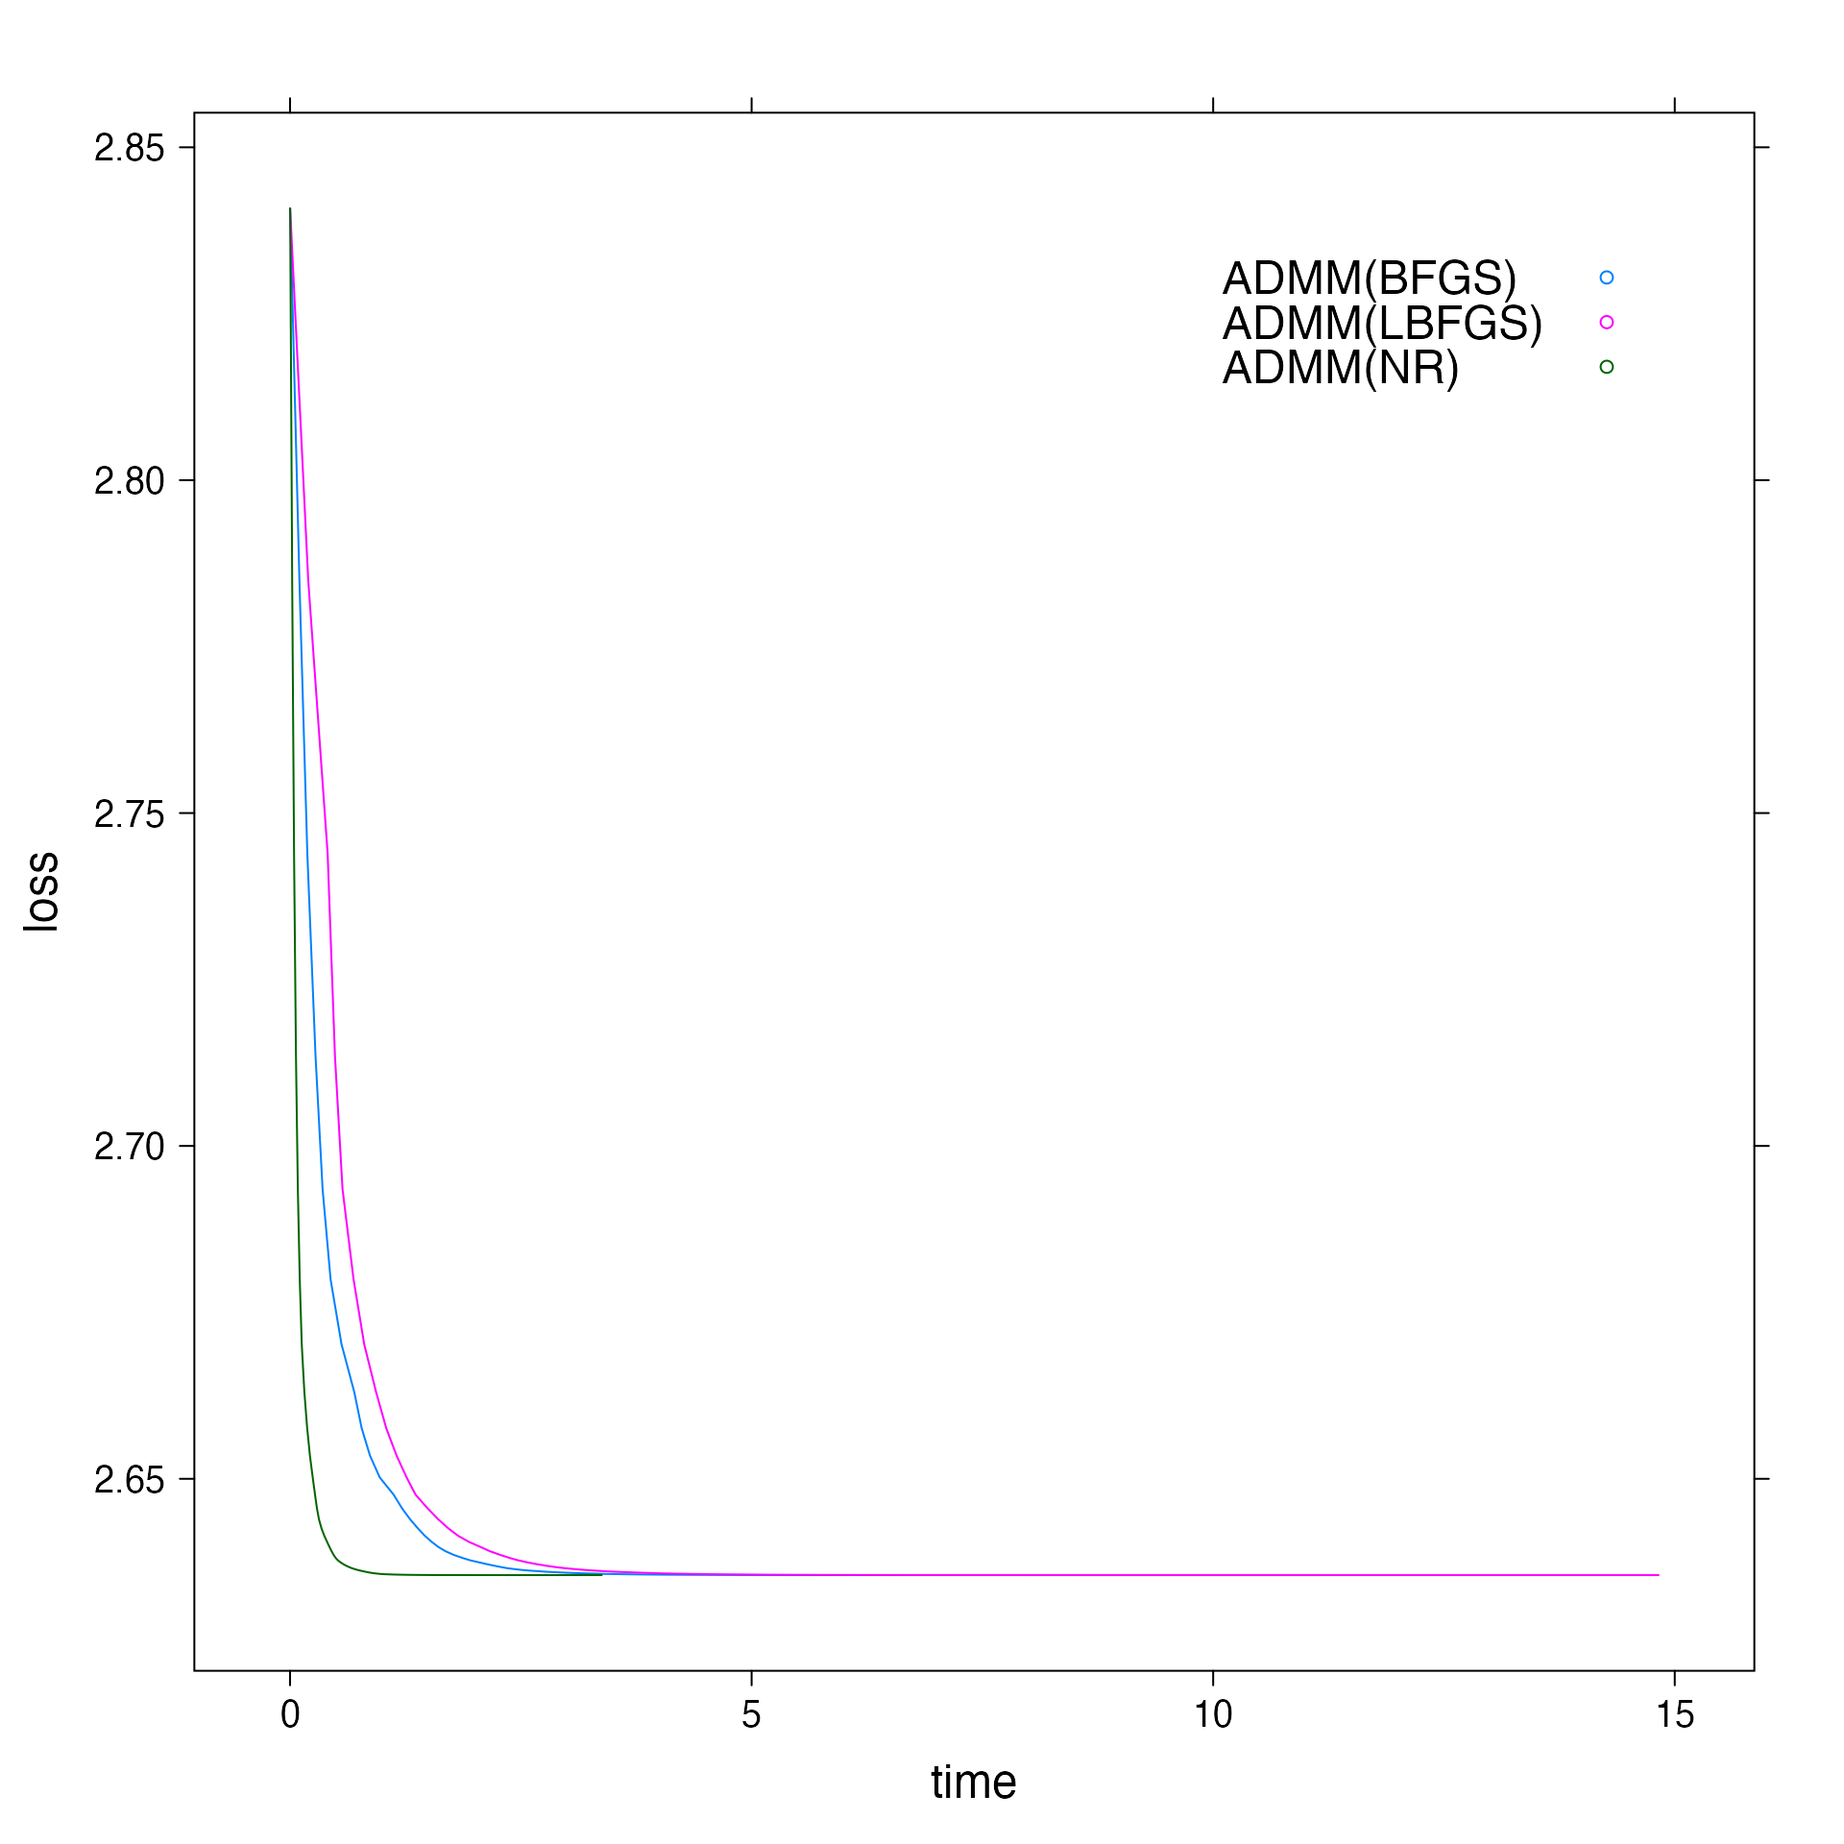
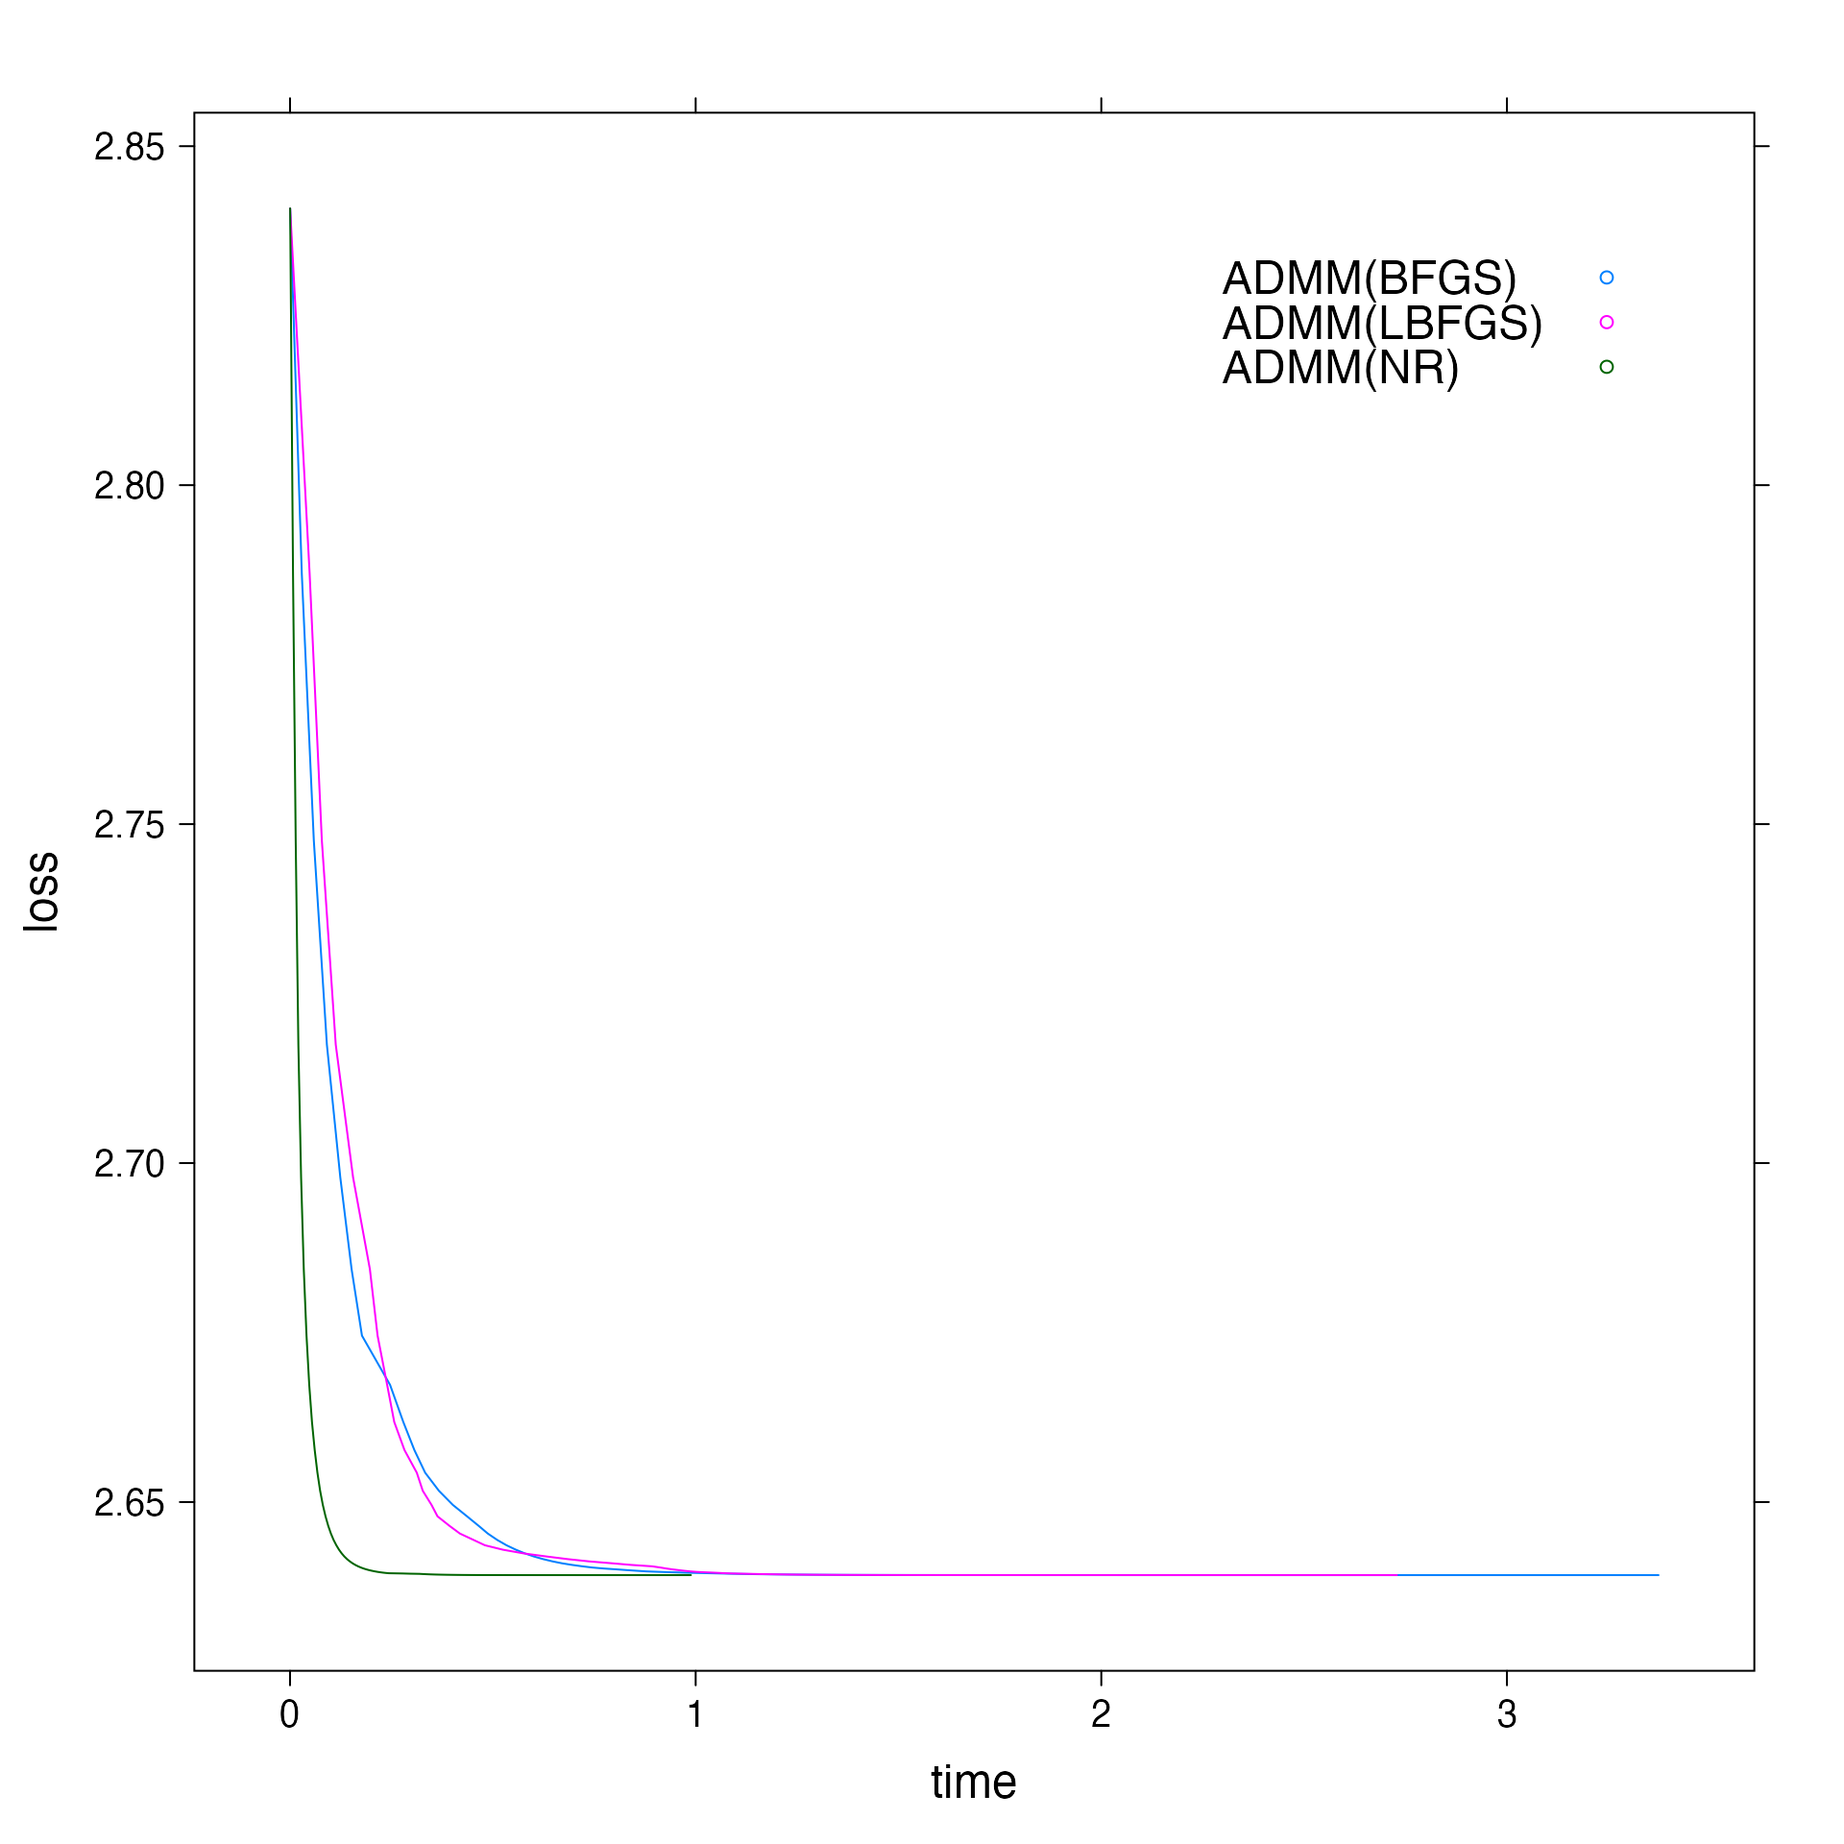
Built site for solvers: 1.0@f6d33bb

diff --git a/index.html b/index.html
@@ -116,18 +116,21 @@
 <h3 class="hasAnchor">
 <a href="#challenges-faced" class="anchor"></a>Challenges Faced</h3>
 <ul>
-<li><p>The biggest challenge was dealing with badly conditioned Hessian matrix. This problem first arose in Proximal Newton. We tried out various fixes and have implemented one such fix, but it is not fool-proof. This problem blew up in much severe way when we tried using Matrix Inversion Lemma (in both ADMM and PN) where in one instance, we encountered a temporary matrix whose inverse condition number was exactly 0. This was the major reason ADMM and PN lost out horribly to FISTA when number of features (p) was greater than number of training points (n) and hence benchmarking was done for only n&gt;p cases to save compute time.</p></li>
-<li><p>As there are a lot of moving parts and algorithms are primarily numerical, a lot of time went into debugging the implementations.</p></li>
-<li><p>In the Proximal Quasi-Newton algorithm, solving the subproblem is highly inefficient right now and we are yet to notice a practical case where PN is outperformed by PQN.</p></li>
-<li><p>When large scale problems of poisson regression are solved using second order algorithms, gradients blow up and also more often than not, Hessian turns out to be singular. This renders usage of ADMM(BFGS/L-BFGS) and PN highly unstable. This is the reason we haven’t added benchmarks for poisson regression.</p></li>
-<li>
-<p>For multinomial family, there is no closed form expression for computing Hessian. We had to used a rather inefficient method there.</p>
-<h3 id="future-work">Future Work</h3>
+<li>The biggest challenge was dealing with badly conditioned Hessian matrix. This problem first arose in Proximal Newton. We tried out various fixes and have implemented one such fix, but it is not fool-proof. This problem blew up in much severe way when we tried using Matrix Inversion Lemma (in both ADMM and PN) where in one instance, we encountered a temporary matrix whose inverse condition number was exactly 0. This was the major reason ADMM and PN lost out horribly to FISTA when number of features (p) was greater than number of training points (n) and hence benchmarking was done for only n&gt;p cases to save compute time.</li>
+<li>As there are a lot of moving parts and algorithms are primarily numerical, a lot of time went into debugging the implementations.</li>
+<li>In the Proximal Quasi-Newton algorithm, solving the subproblem is highly inefficient right now and we are yet to notice a practical case where PN is outperformed by PQN.</li>
+<li>When large scale problems of poisson regression are solved using second order algorithms, gradients blow up and also more often than not, Hessian turns out to be singular. This renders usage of ADMM(BFGS/L-BFGS) and PN highly unstable. This is the reason we haven’t added benchmarks for poisson regression.</li>
+<li>For multinomial family, there is no closed form expression for computing Hessian. We had to used a rather inefficient method there.</li>
+</ul>
+</div>
+<div id="future-work" class="section level3">
+<h3 class="hasAnchor">
+<a href="#future-work" class="anchor"></a>Future Work</h3>
 <p>This still room for future work in SLOPE+solvers package.</p>
-</li>
-<li><p>If one could find a good strategy to tackle singular Hessian, it would solve major problems in both ADMM and PN.</p></li>
-<li><p>Due to time constraint, we couldn’t merge the solvers’ code into SLOPE package. My recommendation would be to definitely consider Proximal Newton for gaussian and binomial likelohood functions when n is significantly greater than p as PN scales really well with n.</p></li>
-<li><p>solvers package’s default values are not fined tunes for different algorithms right now. One possible line of work could be to find these default values which are in sync with each other.</p></li>
+<ul>
+<li>If one could find a good strategy to tackle singular Hessian, it would solve major problems in both ADMM and PN.</li>
+<li>Due to time constraint, we couldn’t merge the solvers’ code into SLOPE package. My recommendation would be to definitely consider Proximal Newton for gaussian and binomial likelohood functions when n is significantly greater than p as PN scales really well with n.</li>
+<li>solvers package’s default values are not fined tunes for different algorithms right now. One possible line of work could be to find these default values which are in sync with each other.</li>
 </ul>
 </div>
 </div>

diff --git a/articles/gaussian.html b/articles/gaussian.html
@@ -105,16 +105,33 @@
 <div id="n-p" class="section level2">
 <h2 class="hasAnchor">
 <a href="#n-p" class="anchor"></a>n &gt; p</h2>
+<div id="p-10" class="section level3">
+<h3 class="hasAnchor">
+<a href="#p-10" class="anchor"></a>p = 10</h3>
 <div class="sourceCode" id="cb2"><pre class="downlit">
 <span class="fu"><a href="https://rdrr.io/r/base/Random.html">set.seed</a></span>(<span class="fl">34</span>)
-<span class="kw">d</span> <span class="op">&lt;-</span> <span class="fu"><a href="../reference/randomProblem.html">randomProblem</a></span>(<span class="fl">11</span>, <span class="fl">1</span>,  response=<span class="st">"gaussian"</span>, density = <span class="fl">1</span>, rho=<span class="fl">0</span>)
+<span class="kw">d</span> <span class="op">&lt;-</span> <span class="fu"><a href="../reference/randomProblem.html">randomProblem</a></span>(<span class="fl">1000</span>, <span class="fl">10</span>, response=<span class="st">"gaussian"</span>, density = <span class="fl">1</span>, rho=<span class="fl">0</span>)
 <span class="kw">f</span> <span class="op">&lt;-</span> <span class="fu"><a href="../reference/getBenchmarks.html">getBenchmarks</a></span>(<span class="kw">d</span><span class="op">$</span><span class="kw">x</span>, <span class="kw">d</span><span class="op">$</span><span class="kw">y</span>, family=<span class="st">"gaussian"</span>, path_length = <span class="fl">100</span>)
-<span class="co">#&gt; [1] "Time taken by FISTA        :  0.000920907"</span>
-<span class="co">#&gt; [1] "Time taken by ADMM(NR)     :  0.012909983"</span>
-<span class="co">#&gt; [1] "Time taken by ADMM(BFGS)   :  0.00641842"</span>
-<span class="co">#&gt; [1] "Time taken by ADMM(L-BFGS) :  0.007134423"</span>
-<span class="co">#&gt; [1] "Time taken by PN           :  0.187304294"</span>
+<span class="co">#&gt; [1] "Time taken by FISTA        :  4.676911779"</span>
+<span class="co">#&gt; [1] "Time taken by ADMM(NR)     :  0.276678281"</span>
+<span class="co">#&gt; [1] "Time taken by ADMM(BFGS)   :  1.358563265"</span>
+<span class="co">#&gt; [1] "Time taken by ADMM(L-BFGS) :  0.863781532"</span>
+<span class="co">#&gt; [1] "Time taken by PN           :  0.604222151"</span>
 </pre></div>
+</div>
+<div id="p-20" class="section level3">
+<h3 class="hasAnchor">
+<a href="#p-20" class="anchor"></a>p = 20</h3>
+<div class="sourceCode" id="cb3"><pre class="downlit">
+<span class="kw">d</span> <span class="op">&lt;-</span> <span class="fu"><a href="../reference/randomProblem.html">randomProblem</a></span>(<span class="fl">1000</span>, <span class="fl">20</span>, response=<span class="st">"gaussian"</span>, density = <span class="fl">1</span>, rho=<span class="fl">0</span>)
+<span class="kw">f</span> <span class="op">&lt;-</span> <span class="fu"><a href="../reference/getBenchmarks.html">getBenchmarks</a></span>(<span class="kw">d</span><span class="op">$</span><span class="kw">x</span>, <span class="kw">d</span><span class="op">$</span><span class="kw">y</span>, family=<span class="st">"gaussian"</span>, path_length = <span class="fl">100</span>)
+<span class="co">#&gt; [1] "Time taken by FISTA        :  11.425439539"</span>
+<span class="co">#&gt; [1] "Time taken by ADMM(NR)     :  0.844101805"</span>
+<span class="co">#&gt; [1] "Time taken by ADMM(BFGS)   :  3.016376356"</span>
+<span class="co">#&gt; [1] "Time taken by ADMM(L-BFGS) :  2.129827844"</span>
+<span class="co">#&gt; [1] "Time taken by PN           :  1.768098736"</span>
+</pre></div>
+</div>
 </div>
 </div>
   </div>

diff --git a/articles/multinomial.html b/articles/multinomial.html
@@ -109,11 +109,11 @@
 <span class="fu"><a href="https://rdrr.io/r/base/Random.html">set.seed</a></span>(<span class="fl">34</span>)
 <span class="kw">d</span> <span class="op">&lt;-</span> <span class="fu"><a href="../reference/randomProblem.html">randomProblem</a></span>(<span class="fl">11</span>, <span class="fl">1</span>,  response=<span class="st">"multinomial"</span>, density = <span class="fl">1</span>, rho=<span class="fl">0</span>)
 <span class="kw">f</span> <span class="op">&lt;-</span> <span class="fu"><a href="../reference/getBenchmarks.html">getBenchmarks</a></span>(<span class="kw">d</span><span class="op">$</span><span class="kw">x</span>, <span class="kw">d</span><span class="op">$</span><span class="kw">y</span>, family=<span class="st">"multinomial"</span>, path_length = <span class="fl">100</span>)
-<span class="co">#&gt; [1] "Time taken by FISTA        :  0.268020699"</span>
-<span class="co">#&gt; [1] "Time taken by ADMM(NR)     :  1.183703223"</span>
-<span class="co">#&gt; [1] "Time taken by ADMM(BFGS)   :  2.98473861"</span>
-<span class="co">#&gt; [1] "Time taken by ADMM(L-BFGS) :  1.910052513"</span>
-<span class="co">#&gt; [1] "Time taken by PN           :  3.870624062"</span>
+<span class="co">#&gt; [1] "Time taken by FISTA        :  0.059656486"</span>
+<span class="co">#&gt; [1] "Time taken by ADMM(NR)     :  0.274881689"</span>
+<span class="co">#&gt; [1] "Time taken by ADMM(BFGS)   :  0.744173035"</span>
+<span class="co">#&gt; [1] "Time taken by ADMM(L-BFGS) :  0.516519617"</span>
+<span class="co">#&gt; [1] "Time taken by PN           :  1.068866521"</span>
 </pre></div>
 </div>
 </div>

diff --git a/articles/binomial.html b/articles/binomial.html
@@ -109,11 +109,11 @@
 <span class="fu"><a href="https://rdrr.io/r/base/Random.html">set.seed</a></span>(<span class="fl">34</span>)
 <span class="kw">d</span> <span class="op">&lt;-</span> <span class="fu"><a href="../reference/randomProblem.html">randomProblem</a></span>(<span class="fl">11</span>, <span class="fl">1</span>,  response=<span class="st">"binomial"</span>, density = <span class="fl">1</span>, rho=<span class="fl">0</span>)
 <span class="kw">f</span> <span class="op">&lt;-</span> <span class="fu"><a href="../reference/getBenchmarks.html">getBenchmarks</a></span>(<span class="kw">d</span><span class="op">$</span><span class="kw">x</span>, <span class="kw">d</span><span class="op">$</span><span class="kw">y</span>, family=<span class="st">"binomial"</span>, path_length = <span class="fl">100</span>)
-<span class="co">#&gt; [1] "Time taken by FISTA        :  0.300385063"</span>
-<span class="co">#&gt; [1] "Time taken by ADMM(NR)     :  1.69132242"</span>
-<span class="co">#&gt; [1] "Time taken by ADMM(BFGS)   :  1.889514657"</span>
-<span class="co">#&gt; [1] "Time taken by ADMM(L-BFGS) :  1.680073684"</span>
-<span class="co">#&gt; [1] "Time taken by PN           :  4.249034659"</span>
+<span class="co">#&gt; [1] "Time taken by FISTA        :  0.090413133"</span>
+<span class="co">#&gt; [1] "Time taken by ADMM(NR)     :  0.497007855"</span>
+<span class="co">#&gt; [1] "Time taken by ADMM(BFGS)   :  0.582935908"</span>
+<span class="co">#&gt; [1] "Time taken by ADMM(L-BFGS) :  0.443980623"</span>
+<span class="co">#&gt; [1] "Time taken by PN           :  1.291150119"</span>
 </pre></div>
 </div>
 </div>

diff --git a/articles/compare_opt_algo.html b/articles/compare_opt_algo.html
@@ -120,11 +120,11 @@
 <div class="sourceCode" id="cb4"><pre class="downlit">
 <span class="co"># Comparing total execution time</span>
 <span class="fu"><a href="https://rdrr.io/r/base/print.html">print</a></span>(<span class="kw">admm_nr</span><span class="op">$</span><span class="kw">total_time</span>)
-<span class="co">#&gt; [1] 3.401722</span>
+<span class="co">#&gt; [1] 0.9967671</span>
 <span class="fu"><a href="https://rdrr.io/r/base/print.html">print</a></span>(<span class="kw">admm_bfgs</span><span class="op">$</span><span class="kw">total_time</span>)
-<span class="co">#&gt; [1] 11.22594</span>
+<span class="co">#&gt; [1] 3.410918</span>
 <span class="fu"><a href="https://rdrr.io/r/base/print.html">print</a></span>(<span class="kw">admm_lbfgs</span><span class="op">$</span><span class="kw">total_time</span>)
-<span class="co">#&gt; [1] 14.92516</span>
+<span class="co">#&gt; [1] 2.745619</span>
 </pre></div>
 <p>Now, these fits cannot be directly used to plot as they contain a lot of parameter so we’ll call a utility function that merges the relevant parameter and returns a dataframe.</p>
 <div class="sourceCode" id="cb5"><pre class="downlit">

diff --git a/articles/compare-fista-admm-pn.html b/articles/compare-fista-admm-pn.html
@@ -118,11 +118,11 @@
 <div class="sourceCode" id="cb4"><pre class="downlit">
 <span class="co"># Comparing total execution time</span>
 <span class="fu"><a href="https://rdrr.io/r/base/print.html">print</a></span>(<span class="kw">fista_fit</span><span class="op">$</span><span class="kw">total_time</span>)
-<span class="co">#&gt; [1] 0.4092264</span>
+<span class="co">#&gt; [1] 0.1151124</span>
 <span class="fu"><a href="https://rdrr.io/r/base/print.html">print</a></span>(<span class="kw">admm_fit</span><span class="op">$</span><span class="kw">total_time</span>)
-<span class="co">#&gt; [1] 1.813726</span>
+<span class="co">#&gt; [1] 0.4523352</span>
 <span class="fu"><a href="https://rdrr.io/r/base/print.html">print</a></span>(<span class="kw">pn_fit</span><span class="op">$</span><span class="kw">total_time</span>)
-<span class="co">#&gt; [1] 26.43019</span>
+<span class="co">#&gt; [1] 7.003785</span>
 </pre></div>
 <p>Now, these fits cannot be directly used to plot as they contain a lot of parameter so we’ll call a utility function that merges the relevant parameter and returns a dataframe.</p>
 <div class="sourceCode" id="cb5"><pre class="downlit">
